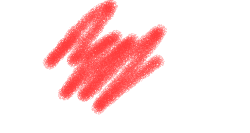
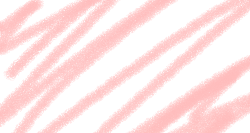
adds bg to active link

diff --git a/src/components/Navbar/Navbar.module.scss b/src/components/Navbar/Navbar.module.scss
@@ -11,15 +11,15 @@
   font-size: 1.5rem;
   text-decoration: none;
   &:hover {
-    color: rgb(254, 84, 84);
+    //color: rgb(254, 84, 84);
   }
 }
 
 .active_link {
   text-decoration: underline;
-  // background-image: url("/assets/active_link.png");
-  // background-repeat: no-repeat;
-  // background-position-x: -7px;
-  // background-size: contain;
+  background-image: url("/assets/active_link.png");
+  background-repeat: no-repeat;
+  background-position-x: -7px;
+  background-size: cover;
   //background-size: 140%;
 }
